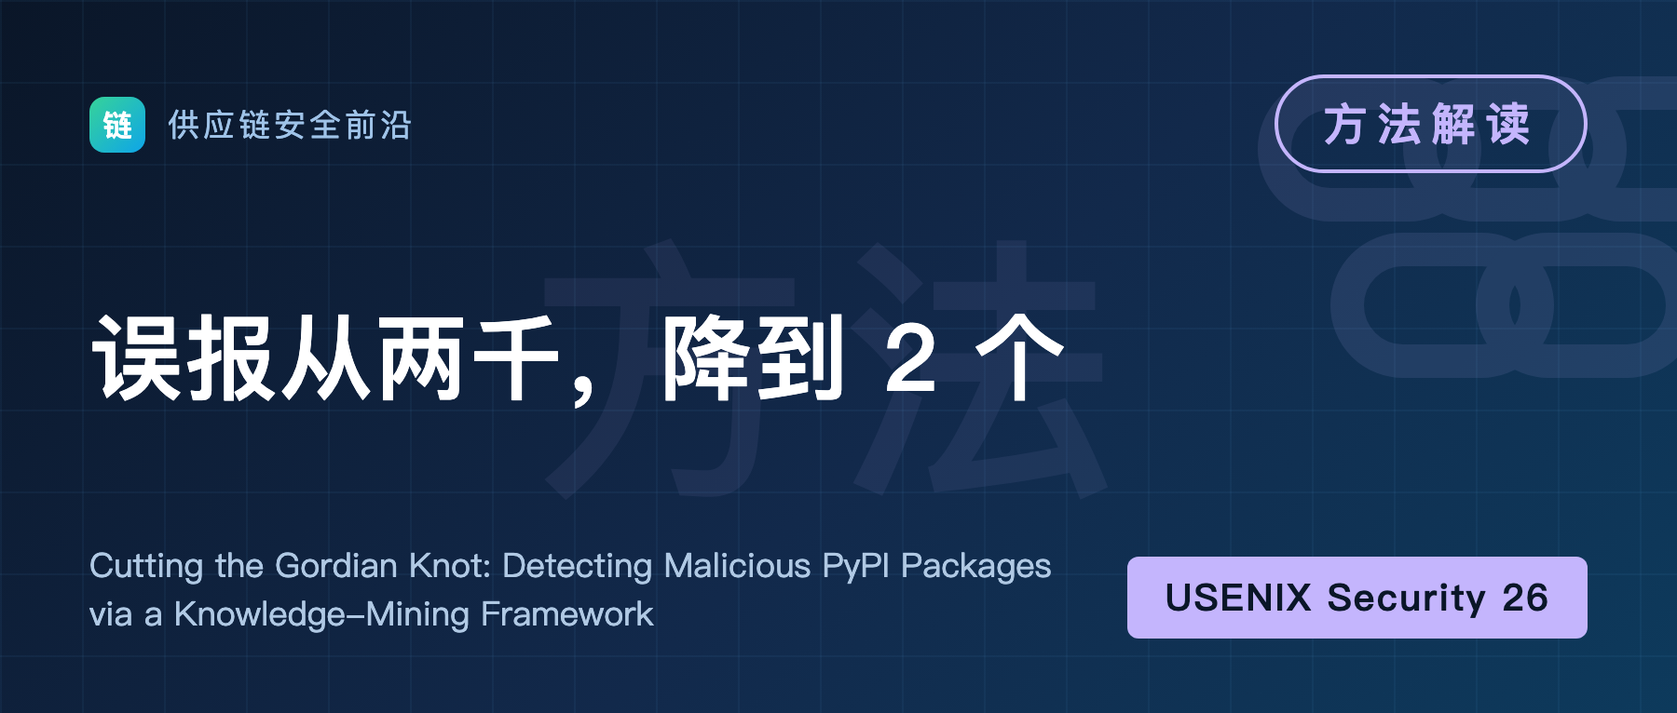
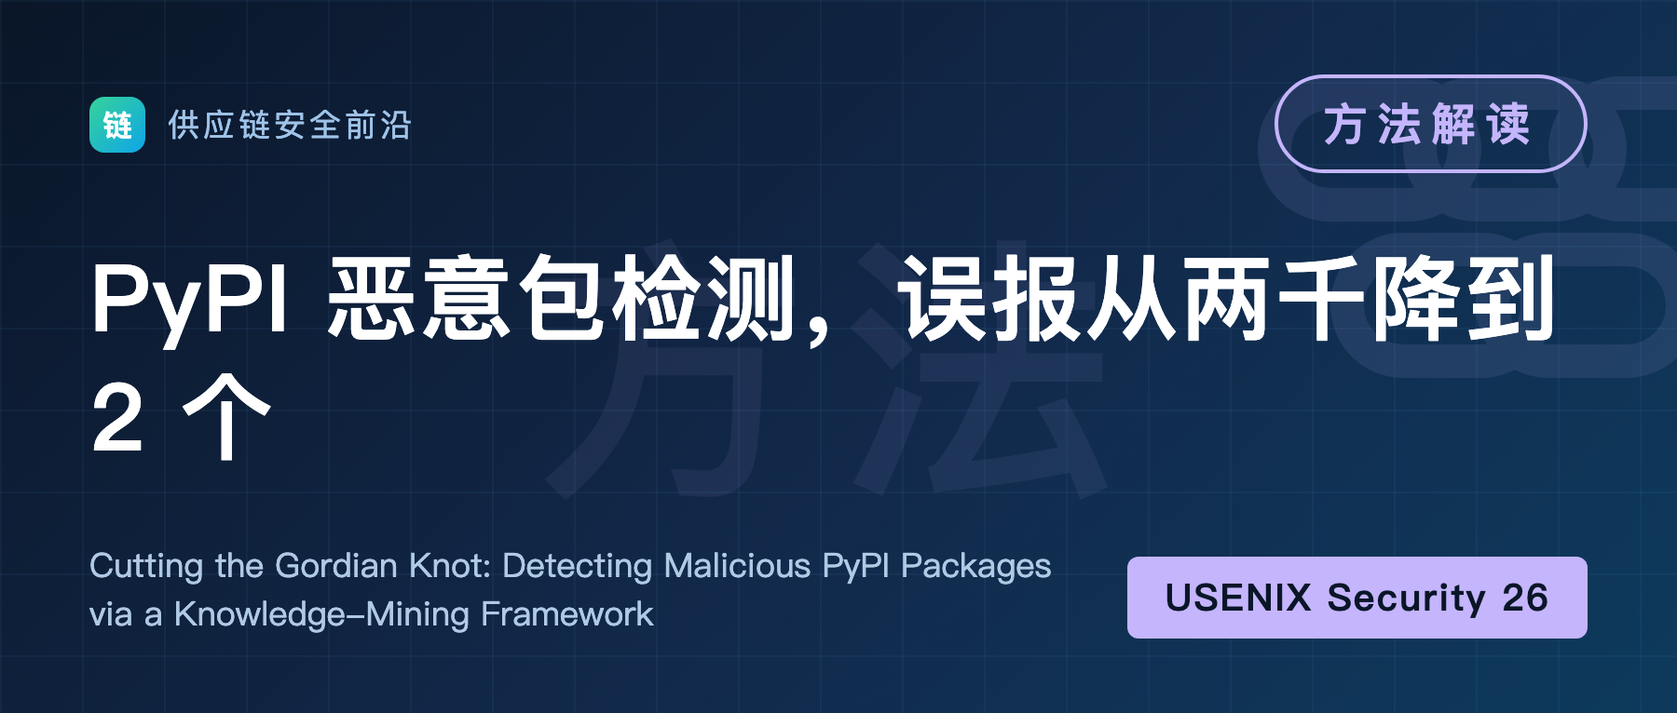
fix: 两篇封面标题点明主题 + PyGuard 正文避开微信 WAF 敏感字面量
封面大标题不再用抽象数字/金句：
- PyGuard: "误报从两千降到 2 个" → "PyPI 恶意包检测，误报从两千降到 2 个"
- 侧信道: "包长度出卖了你的对话" → "包长度，出卖了你和大模型的对话"
PyGuard 正文 Fig1 图注去掉 /etc/passwd、webhook.site 字面量（被腾讯 WAF 拦成 501）。
PAPER_WORKFLOW 失败恢复补入 WAF 501 处置 + 换封面清 thumb_media_id 两条。

Changed region(s): [[0.0311, 0.3603, 0.9333, 0.6606]]

diff --git a/papers/2026-08-pyguard/article.html b/papers/2026-08-pyguard/article.html
@@ -1,1 +1,1 @@
-<section style="font-family:-apple-system,BlinkMacSystemFont,&quot;PingFang SC&quot;,sans-serif;padding:4px 2px;"><section style="margin:8px 0 28px;"><p style="margin:0 0 12px;font-size:12px;color:#94a3b8;letter-spacing:2px;">本文看点</p><section style="display:flex;"><section style="flex:1;background:#f7f9fb;border-top:3px solid #7c3aed;border-radius:4px;padding:12px 10px;margin:0 4px;"><p style="margin:0;font-size:12px;color:#94a3b8;">01</p><p style="margin:6px 0 0;font-size:13px;font-weight:600;color:#333;line-height:1.5;">误报从两千降到2个</p></section><section style="flex:1;background:#f7f9fb;border-top:3px solid #7c3aed;border-radius:4px;padding:12px 10px;margin:0 4px;"><p style="margin:0;font-size:12px;color:#94a3b8;">02</p><p style="margin:6px 0 0;font-size:13px;font-weight:600;color:#333;line-height:1.5;">从工具错误里挖知识</p></section><section style="flex:1;background:#f7f9fb;border-top:3px solid #7c3aed;border-radius:4px;padding:12px 10px;margin:0 4px;"><p style="margin:0;font-size:12px;color:#94a3b8;">03</p><p style="margin:6px 0 0;font-size:13px;font-weight:600;color:#333;line-height:1.5;">PyPI揪出219新恶意包</p></section></section></section><section style="margin:36px 0 20px;"><p style="margin:0;font-size:44px;font-weight:800;color:#e2e8f0;line-height:1;">01</p><p style="margin:2px 0 0;font-size:11px;letter-spacing:3px;color:#94a3b8;">PAPER INFO</p><p style="margin:6px 0 0;font-size:20px;font-weight:700;color:#222;">论文信息</p><section style="width:36px;height:3px;background:#7c3aed;margin-top:8px;"></section></section><p style="margin:0 0 20px;font-size:15px;line-height:1.9;color:#3f3f3f;letter-spacing:.5px;text-align:justify;">【论文题目】Cutting the Gordian Knot: Detecting Malicious PyPI Packages via a Knowledge-Mining Framework<br/>【论文链接】https://arxiv.org/abs/2601.16463<br/>【作者团队】南洋理工大学、南开大学、四川大学、帝国理工新加坡</p><section style="margin:20px 0;text-align:center;"><img src="assets/header.png" style="max-width:100%;border-radius:4px;" /><p style="margin:8px 0 0;font-size:12px;color:#888888;text-align:center;line-height:1.6;">— 论文题头</p></section><p style="margin:0 0 20px;font-size:15px;line-height:1.9;color:#3f3f3f;letter-spacing:.5px;text-align:justify;">这是一篇发表在 <strong style="color:#7c3aed;">USENIX Security 2026</strong> 的攻击/检测方法论文（Artifact Evaluated），标题化用了"快刀斩乱麻"的典故。它盯住恶意包检测领域一个又老又顽固的痛点，然后用一个很反常规的思路把它解开。因为是方法类论文，本文重点讲清它的巧思和为什么有效。</p><section style="margin:36px 0 20px;"><p style="margin:0;font-size:44px;font-weight:800;color:#e2e8f0;line-height:1;">02</p><p style="margin:2px 0 0;font-size:11px;letter-spacing:3px;color:#94a3b8;">OVERVIEW</p><p style="margin:6px 0 0;font-size:20px;font-weight:700;color:#222;">导读</p><section style="width:36px;height:3px;background:#7c3aed;margin-top:8px;"></section></section><p style="margin:0 0 20px;font-size:15px;line-height:1.9;color:#3f3f3f;letter-spacing:.5px;text-align:justify;">PyPI 上的恶意包检测器不是没有，问题是它们太爱"狼来了"：现有工具的误报率高达 15% 到 30%，<strong style="color:#dc2626;">三分之一的正常包会被误判成恶意</strong>。误报一多，安全团队每周要人工复核四千多个假警报，最后干脆把工具关了或调成宽松模式，反而留出安全盲区。</p><p style="margin:0 0 20px;font-size:15px;line-height:1.9;color:#3f3f3f;letter-spacing:.5px;text-align:justify;">为什么误报这么高？因为现有工具大多靠<strong style="color:#7c3aed;">语法规则</strong>：看到一个敏感 API（比如网络请求、文件读写、base64 编码）就报警，可它读不懂这个 API 到底是在正常干活还是在作恶。PYGUARD 提出一个反常规的解法：既然工具会"看走眼"，那它们看走眼的地方本身就藏着知识，不如从这些误报和漏报里，系统地挖出到底什么行为才能真正区分善恶。最终它把误报从近两千降到 <strong style="color:#7c3aed;">2 个</strong>、准确率做到 99.5%，还扛得住代码混淆、能迁移到 NPM，实测在 PyPI 上揪出了 219 个此前无人发现的恶意包。</p><section style="margin:36px 0 20px;"><p style="margin:0;font-size:44px;font-weight:800;color:#e2e8f0;line-height:1;">03</p><p style="margin:2px 0 0;font-size:11px;letter-spacing:3px;color:#94a3b8;">PAINPOINT</p><p style="margin:6px 0 0;font-size:20px;font-weight:700;color:#222;">痛点：好包坏包，用的是同一批 API</p><section style="width:36px;height:3px;background:#7c3aed;margin-top:8px;"></section></section><p style="margin:0 0 20px;font-size:15px;line-height:1.9;color:#3f3f3f;letter-spacing:.5px;text-align:justify;">先看论文开篇这个例子，一眼就懂现有工具为什么会误报：</p><section style="margin:20px 0;text-align:center;"><img src="assets/fig/fig1-motivating.png" style="max-width:100%;border-radius:4px;" /><p style="margin:8px 0 0;font-size:12px;color:#888888;text-align:center;line-height:1.6;">— 图1：左边是恶意代码，读取 /etc/passwd、base64 编码、再通过 urllib 把数据发到 webhook.site 这个外部地址，一条典型的信息外泄链；右边是正常代码，一个图片处理函数，同样用了 urllib.parse.urlencode 拼 URL、用 base64.b64encode 编码图片。两段代码在 API 层面高度相似（都碰了敏感路径、网络连接、编码），于是所有主流工具都把右边这个正常包误报成了恶意</p></section><p style="margin:0 0 20px;font-size:15px;line-height:1.9;color:#3f3f3f;letter-spacing:.5px;text-align:justify;">关键就在这：恶意的 `base64` + 网络请求，和正常的 `base64` + 网络请求，在语法层面长得几乎一模一样。区别不在用了哪个 API，而在<strong style="color:#7c3aed;">这些 API 串起来到底想干什么</strong>，是"读系统密码文件→编码→发到陌生外部服务器"，还是"读图片→编码→返回给调用方"。语法规则只看到了前半句（用了什么），看不到后半句（意图是什么），于是把大量正常操作也一并报警了。这就是恶意包检测长期高误报的病根。</p><section style="margin:36px 0 20px;"><p style="margin:0;font-size:44px;font-weight:800;color:#e2e8f0;line-height:1;">04</p><p style="margin:2px 0 0;font-size:11px;letter-spacing:3px;color:#94a3b8;">INSIGHT</p><p style="margin:6px 0 0;font-size:20px;font-weight:700;color:#222;">核心洞察：从工具"看走眼"的地方挖知识</p><section style="width:36px;height:3px;background:#7c3aed;margin-top:8px;"></section></section><section style="margin:22px 0;padding:14px 20px;background:#f7f9fb;border-left:4px solid #7c3aed;border-radius:0 4px 4px 0;"><p style="margin:0;font-size:15px;line-height:1.85;color:#333;font-weight:500;">PYGUARD 的核心洞察是：检测工具的误报和漏报，本身就是最宝贵的知识。与其一条条被动地去修误报规则，不如反过来，从工具"看走眼"的地方系统地挖出到底什么行为序列才能真正区分善恶。它不看单个 API，而是把 API 调用抽象成"行为"，再从海量样本里挖出那些只在恶意代码、或只在正常代码里出现的"确定性模式"。一个 API 会不会作恶取决于上下文，但一整条行为链，比如建 socket、连远程、再把标准输入输出都重定向过去，无论换什么写法，本质就是个反弹 shell。语法可以伪装，行为的意图伪装不了。</p></section><p style="margin:0 0 20px;font-size:15px;line-height:1.9;color:#3f3f3f;letter-spacing:.5px;text-align:justify;">这个视角的高明之处在于，它把观测的粒度从"单个 API 调用"抬到了"行为序列"，而意图恰恰藏在序列里，不藏在单点里。</p><section style="margin:36px 0 20px;"><p style="margin:0;font-size:44px;font-weight:800;color:#e2e8f0;line-height:1;">05</p><p style="margin:2px 0 0;font-size:11px;letter-spacing:3px;color:#94a3b8;">METHOD</p><p style="margin:6px 0 0;font-size:20px;font-weight:700;color:#222;">方法：PYGUARD 三步，把行为知识挖出来、用起来</p><section style="width:36px;height:3px;background:#7c3aed;margin-top:8px;"></section></section><section style="margin:20px 0;text-align:center;"><img src="assets/fig/fig2-framework.png" style="max-width:100%;border-radius:4px;" /><p style="margin:8px 0 0;font-size:12px;color:#888888;text-align:center;line-height:1.6;">— 图2：PYGUARD 的三阶段框架。① 行为模式挖掘：用 4 个现有工具（GuardDog、Bandit4Mal、OSSGadget、PyPI WareCheck）扫大量样本，收集它们的误报和真恶意片段，用大模型把 API 调用抽象成统一的"行为"，再分三阶段挖模式，阶段一挖"只在恶意/只在正常里出现"的确定性模式，阶段二挖需要结合上下文判断的可辩护模式，阶段三做模式合并压缩。② 知识提取：把模式知识和案例知识做成双层知识库，向量化存入向量库。③ 知识驱动检测：新代码先做模式匹配，命中确定性模式直接定性；命中可辩护模式则检索相似案例、交大模型结合上下文推理，给出可解释的判定</p></section><p style="margin:0 0 20px;font-size:15px;line-height:1.9;color:#3f3f3f;letter-spacing:.5px;text-align:justify;">三步里，第一步的"分层挖模式"是灵魂。作者先用大模型把五花八门的具体 API 归成一套 327 类的行为分类，把"用了 `urllib.request` 还是 `requests.get`"这种实现差异抹平成同一个抽象行为"网络通信"，这样才能跨实现地识别模式。然后分三阶段挖：<strong style="color:#7c3aed;">阶段一是确定性模式</strong>，那些只在恶意代码里、或只在正常代码里出现的行为序列，分类置信度 100%；<strong style="color:#7c3aed;">阶段二是可辩护模式</strong>，类别偏向 90% 以上、但还需要看上下文才能定的；<strong style="color:#7c3aed;">阶段三是模式合并</strong>，用贪心算法把挖出来的十一万多个模式压缩到 304 个（278 个确定性 + 26 个可辩护），压缩了 99.74% 还保住 92.6% 的覆盖率。检测时，命中确定性模式就直接定性，命中可辩护模式才动用大模型结合检索到的相似案例做上下文推理，既快又可解释。</p><p style="margin:0 0 20px;font-size:15px;line-height:1.9;color:#3f3f3f;letter-spacing:.5px;text-align:justify;">这里藏着这套方法<strong style="color:#7c3aed;">为什么能抗混淆</strong>的关键。一条反弹 shell 的行为链，建 socket、连 TCP、把标准输入输出错误都重定向到这个 socket，本质就是恶意，攻击者再怎么改变量名、打乱控制流、拆分函数，这条 API 的<strong style="color:#7c3aed;">执行顺序</strong>都改不了。<strong style="color:#dc2626;">混淆能伪装语法，却改不了行为的执行顺序，而 PYGUARD 抓的正是顺序</strong>。这就是为什么它在混淆代码上还能做到 98.28% 准确率，而依赖表面特征的机器学习工具一遇混淆就掉 20 到 30 个百分点。</p><section style="margin:36px 0 20px;"><p style="margin:0;font-size:44px;font-weight:800;color:#e2e8f0;line-height:1;">06</p><p style="margin:2px 0 0;font-size:11px;letter-spacing:3px;color:#94a3b8;">RESULTS</p><p style="margin:6px 0 0;font-size:20px;font-weight:700;color:#222;">实验：误报 2 个，而且赢在"知识"不在"模型"</p><section style="width:36px;height:3px;background:#7c3aed;margin-top:8px;"></section></section><p style="margin:0 0 20px;font-size:15px;line-height:1.9;color:#3f3f3f;letter-spacing:.5px;text-align:justify;">主结果对比一目了然：</p><section style="margin:20px 0;text-align:center;"><img src="assets/result/table5-main.png" style="max-width:100%;border-radius:4px;" /><p style="margin:8px 0 0;font-size:12px;color:#888888;text-align:center;line-height:1.6;">— 表1：评测集上 PYGUARD 与各基线工具的对比。PYGUARD 准确率 99.50%、F1 99.49%，而误报（FP）只有 2 个；反观现有工具，Bandit4Mal 误报 1927 个、OSSGadget 2000 个、PyPI WareCheck 2117 个，最好的 GuardDog 也有 141 个误报</p></section><p style="margin:0 0 20px;font-size:15px;line-height:1.9;color:#3f3f3f;letter-spacing:.5px;text-align:justify;"><strong style="color:#dc2626;">同一批测试包，现有工具动辄误报近两千个，PYGUARD 只误报 2 个</strong>，这不是小幅改进，是把"高误报"这个老毛病直接摁到了地上。更值得说的是它赢在哪。作者做了一个很有说服力的消融：一个 GPT-4.1 裸跑（不给知识）准确率 96.72%，一遇混淆代码就掉到 68.58%、飙出 637 个误报；而<strong style="color:#7c3aed;">同样的 GPT-4.1 配上这套行为知识，准确率 99.50%、混淆下也有 98.28%</strong>。最能说明问题的是，<strong style="color:#7c3aed;">连更小的 GPT-4.1-Mini 配上这套知识（99.51%），都反过来胜过了大模型裸跑（96.72%）</strong>，证明真正提供检测力的是那 304 个行为模式，而不是大模型本身的能力。也正因如此，它换成开源的 DeepSeek-V3、Qwen3-8B 也照样能跑（97.74%、95.24%），不依赖闭源 API，成本能压到近乎为零。</p><p style="margin:0 0 20px;font-size:15px;line-height:1.9;color:#3f3f3f;letter-spacing:.5px;text-align:justify;">它还有两个很硬的外部验证。其一，<strong style="color:#7c3aed;">行为知识能跨语言迁移</strong>：把从 PyPI 挖出的模式不加任何改动地拿去检测 NPM 的 JavaScript 恶意包，准确率 98.07%，因为"建连接、执行命令、外泄数据"这些恶意行为的底层逻辑，是不分编程语言的通用原语。其二，也是最有分量的，<strong style="color:#dc2626;">把 PYGUARD 真部署到 PyPI 上跑了三个月，揪出 219 个此前 OSV、Snyk 等数据库都没收录的恶意包，全部被 PyPI 官方确认下架</strong>（收到 253 封确认函），这些包三个月里已经被下载了近四万次；它还在清华、腾讯等国内镜像里查出四千多个恶意包，清华镜像光受影响版本就超过两千、被下载二十多万次，清华和腾讯都已确认清理。同期，那些高误报的基线工具在相同数据上产生了七千多个假警报。</p><p style="margin:0 0 20px;font-size:15px;line-height:1.9;color:#3f3f3f;letter-spacing:.5px;text-align:justify;">作者也很诚实地标注了边界：PYGUARD 剩下的 19 个漏报，主要是依赖混淆（包自己不含恶意代码、只是引入了一个恶意依赖）、运行时才从远程拉恶意代码、以及把载荷藏在非 Python 文件里这三类，它们落在"分析 Python 代码行为"这个设计范围之外。</p><section style="margin:36px 0 20px;"><p style="margin:0;font-size:44px;font-weight:800;color:#e2e8f0;line-height:1;">07</p><p style="margin:2px 0 0;font-size:11px;letter-spacing:3px;color:#94a3b8;">TAKEAWAYS</p><p style="margin:6px 0 0;font-size:20px;font-weight:700;color:#222;">启发与点评</p><section style="width:36px;height:3px;background:#7c3aed;margin-top:8px;"></section></section><p style="margin:0 0 20px;font-size:15px;line-height:1.9;color:#3f3f3f;letter-spacing:.5px;text-align:justify;"><strong style="color:#7c3aed;">对研究者</strong>：这篇最漂亮的思路，是把"检测失败"从一个要消灭的坏东西，变成了一座可开采的知识矿。传统做法是把误报当噪声去压，而它反过来问，工具为什么会在这里看走眼？这个"看走眼"里就藏着善恶的真正分界。这个"从失败中挖知识"的范式可以迁移到任何高误报的检测场景。方法层面还有两点值得记：一是<strong style="color:#7c3aed;">把观测粒度从单点 API 抬到行为序列</strong>，意图藏在序列里而非单点里，这也是它抗混淆、能跨语言迁移的根本原因；二是它用消融证明了一件在大模型时代很重要的事，<strong style="color:#7c3aed;">决定检测效果的往往不是模型有多大，而是喂给它的领域知识有多精</strong>，一套好知识能让小模型胜过裸跑的大模型，这对成本敏感的落地部署是实打实的启发。</p><p style="margin:0 0 20px;font-size:15px;line-height:1.9;color:#3f3f3f;letter-spacing:.5px;text-align:justify;"><strong style="color:#7c3aed;">对从业者</strong>：两个能立刻用的判断。其一，<strong style="color:#7c3aed;">别因为误报高就把检测工具关掉</strong>：高误报的根子是"只看 API 不看行为链"，与其一关了之留下盲区，不如换用能做行为序列分析、能给出可解释理由的方案。其二，<strong style="color:#7c3aed;">盯紧行为链而不是单个敏感 API</strong>：审一个包时，与其看它有没有用 `base64` 或网络请求（正常包也天天用），不如看这些操作串起来的意图，是不是"读敏感文件→编码→发往陌生外部地址"这种完整的外泄链；对镜像维护者来说，这篇也提了个醒，国内镜像里的恶意包存量不小，且会随镜像同步扩散。</p><p style="margin:0 0 20px;font-size:15px;line-height:1.9;color:#3f3f3f;letter-spacing:.5px;text-align:justify;"><strong style="color:#7c3aed;">一点观察</strong>：把这篇放进我们此前解读的恶意包检测系列里看（NPM 检测器横向评测、MalTotal 等），它回答的正是那些工作反复暴露的同一个痛点，现有检测器要么误报高、要么一遇混淆和新攻击就失效，根子都在"依赖表面特征、不懂行为语义"。而 PYGUARD 给出的解法很统一，<strong style="color:#7c3aed;">把检测的锚点从"代码长什么样"换成"代码在做什么"</strong>，行为的意图比语法的外壳稳定得多，也通用得多。软件供应链安全走到今天，恶意与正常的边界越来越模糊、伪装越来越像，能不能守住这条线，越来越取决于我们有没有一套关于"什么行为组合起来才算恶意"的精确知识，而这套知识，恰恰可以从现有工具一次次的失败里挖出来。</p></section>
+<section style="font-family:-apple-system,BlinkMacSystemFont,&quot;PingFang SC&quot;,sans-serif;padding:4px 2px;"><section style="margin:8px 0 28px;"><p style="margin:0 0 12px;font-size:12px;color:#94a3b8;letter-spacing:2px;">本文看点</p><section style="display:flex;"><section style="flex:1;background:#f7f9fb;border-top:3px solid #7c3aed;border-radius:4px;padding:12px 10px;margin:0 4px;"><p style="margin:0;font-size:12px;color:#94a3b8;">01</p><p style="margin:6px 0 0;font-size:13px;font-weight:600;color:#333;line-height:1.5;">误报从两千降到2个</p></section><section style="flex:1;background:#f7f9fb;border-top:3px solid #7c3aed;border-radius:4px;padding:12px 10px;margin:0 4px;"><p style="margin:0;font-size:12px;color:#94a3b8;">02</p><p style="margin:6px 0 0;font-size:13px;font-weight:600;color:#333;line-height:1.5;">从工具错误里挖知识</p></section><section style="flex:1;background:#f7f9fb;border-top:3px solid #7c3aed;border-radius:4px;padding:12px 10px;margin:0 4px;"><p style="margin:0;font-size:12px;color:#94a3b8;">03</p><p style="margin:6px 0 0;font-size:13px;font-weight:600;color:#333;line-height:1.5;">PyPI揪出219新恶意包</p></section></section></section><section style="margin:36px 0 20px;"><p style="margin:0;font-size:44px;font-weight:800;color:#e2e8f0;line-height:1;">01</p><p style="margin:2px 0 0;font-size:11px;letter-spacing:3px;color:#94a3b8;">PAPER INFO</p><p style="margin:6px 0 0;font-size:20px;font-weight:700;color:#222;">论文信息</p><section style="width:36px;height:3px;background:#7c3aed;margin-top:8px;"></section></section><p style="margin:0 0 20px;font-size:15px;line-height:1.9;color:#3f3f3f;letter-spacing:.5px;text-align:justify;">【论文题目】Cutting the Gordian Knot: Detecting Malicious PyPI Packages via a Knowledge-Mining Framework<br/>【论文链接】https://arxiv.org/abs/2601.16463<br/>【作者团队】南洋理工大学、南开大学、四川大学、帝国理工新加坡</p><section style="margin:20px 0;text-align:center;"><img src="assets/header.png" style="max-width:100%;border-radius:4px;" /><p style="margin:8px 0 0;font-size:12px;color:#888888;text-align:center;line-height:1.6;">— 论文题头</p></section><p style="margin:0 0 20px;font-size:15px;line-height:1.9;color:#3f3f3f;letter-spacing:.5px;text-align:justify;">这是一篇发表在 <strong style="color:#7c3aed;">USENIX Security 2026</strong> 的攻击/检测方法论文（Artifact Evaluated），标题化用了"快刀斩乱麻"的典故。它盯住恶意包检测领域一个又老又顽固的痛点，然后用一个很反常规的思路把它解开。因为是方法类论文，本文重点讲清它的巧思和为什么有效。</p><section style="margin:36px 0 20px;"><p style="margin:0;font-size:44px;font-weight:800;color:#e2e8f0;line-height:1;">02</p><p style="margin:2px 0 0;font-size:11px;letter-spacing:3px;color:#94a3b8;">OVERVIEW</p><p style="margin:6px 0 0;font-size:20px;font-weight:700;color:#222;">导读</p><section style="width:36px;height:3px;background:#7c3aed;margin-top:8px;"></section></section><p style="margin:0 0 20px;font-size:15px;line-height:1.9;color:#3f3f3f;letter-spacing:.5px;text-align:justify;">PyPI 上的恶意包检测器不是没有，问题是它们太爱"狼来了"：现有工具的误报率高达 15% 到 30%，<strong style="color:#dc2626;">三分之一的正常包会被误判成恶意</strong>。误报一多，安全团队每周要人工复核四千多个假警报，最后干脆把工具关了或调成宽松模式，反而留出安全盲区。</p><p style="margin:0 0 20px;font-size:15px;line-height:1.9;color:#3f3f3f;letter-spacing:.5px;text-align:justify;">为什么误报这么高？因为现有工具大多靠<strong style="color:#7c3aed;">语法规则</strong>：看到一个敏感 API（比如网络请求、文件读写、base64 编码）就报警，可它读不懂这个 API 到底是在正常干活还是在作恶。PYGUARD 提出一个反常规的解法：既然工具会"看走眼"，那它们看走眼的地方本身就藏着知识，不如从这些误报和漏报里，系统地挖出到底什么行为才能真正区分善恶。最终它把误报从近两千降到 <strong style="color:#7c3aed;">2 个</strong>、准确率做到 99.5%，还扛得住代码混淆、能迁移到 NPM，实测在 PyPI 上揪出了 219 个此前无人发现的恶意包。</p><section style="margin:36px 0 20px;"><p style="margin:0;font-size:44px;font-weight:800;color:#e2e8f0;line-height:1;">03</p><p style="margin:2px 0 0;font-size:11px;letter-spacing:3px;color:#94a3b8;">PAINPOINT</p><p style="margin:6px 0 0;font-size:20px;font-weight:700;color:#222;">痛点：好包坏包，用的是同一批 API</p><section style="width:36px;height:3px;background:#7c3aed;margin-top:8px;"></section></section><p style="margin:0 0 20px;font-size:15px;line-height:1.9;color:#3f3f3f;letter-spacing:.5px;text-align:justify;">先看论文开篇这个例子，一眼就懂现有工具为什么会误报：</p><section style="margin:20px 0;text-align:center;"><img src="assets/fig/fig1-motivating.png" style="max-width:100%;border-radius:4px;" /><p style="margin:8px 0 0;font-size:12px;color:#888888;text-align:center;line-height:1.6;">— 图1：左边是恶意代码，读取系统密码文件、做 base64 编码、再通过 urllib 把数据发到一个外部收集地址，一条典型的信息外泄链；右边是正常代码，一个图片处理函数，同样用了 urllib 拼 URL、用 base64 编码图片。两段代码在 API 层面高度相似（都碰了敏感路径、网络连接、编码），于是所有主流工具都把右边这个正常包误报成了恶意</p></section><p style="margin:0 0 20px;font-size:15px;line-height:1.9;color:#3f3f3f;letter-spacing:.5px;text-align:justify;">关键就在这：恶意的 `base64` + 网络请求，和正常的 `base64` + 网络请求，在语法层面长得几乎一模一样。区别不在用了哪个 API，而在<strong style="color:#7c3aed;">这些 API 串起来到底想干什么</strong>，是"读系统密码文件→编码→发到陌生外部服务器"，还是"读图片→编码→返回给调用方"。语法规则只看到了前半句（用了什么），看不到后半句（意图是什么），于是把大量正常操作也一并报警了。这就是恶意包检测长期高误报的病根。</p><section style="margin:36px 0 20px;"><p style="margin:0;font-size:44px;font-weight:800;color:#e2e8f0;line-height:1;">04</p><p style="margin:2px 0 0;font-size:11px;letter-spacing:3px;color:#94a3b8;">INSIGHT</p><p style="margin:6px 0 0;font-size:20px;font-weight:700;color:#222;">核心洞察：从工具"看走眼"的地方挖知识</p><section style="width:36px;height:3px;background:#7c3aed;margin-top:8px;"></section></section><section style="margin:22px 0;padding:14px 20px;background:#f7f9fb;border-left:4px solid #7c3aed;border-radius:0 4px 4px 0;"><p style="margin:0;font-size:15px;line-height:1.85;color:#333;font-weight:500;">PYGUARD 的核心洞察是：检测工具的误报和漏报，本身就是最宝贵的知识。与其一条条被动地去修误报规则，不如反过来，从工具"看走眼"的地方系统地挖出到底什么行为序列才能真正区分善恶。它不看单个 API，而是把 API 调用抽象成"行为"，再从海量样本里挖出那些只在恶意代码、或只在正常代码里出现的"确定性模式"。一个 API 会不会作恶取决于上下文，但一整条行为链，比如建 socket、连远程、再把标准输入输出都重定向过去，无论换什么写法，本质就是个反弹 shell。语法可以伪装，行为的意图伪装不了。</p></section><p style="margin:0 0 20px;font-size:15px;line-height:1.9;color:#3f3f3f;letter-spacing:.5px;text-align:justify;">这个视角的高明之处在于，它把观测的粒度从"单个 API 调用"抬到了"行为序列"，而意图恰恰藏在序列里，不藏在单点里。</p><section style="margin:36px 0 20px;"><p style="margin:0;font-size:44px;font-weight:800;color:#e2e8f0;line-height:1;">05</p><p style="margin:2px 0 0;font-size:11px;letter-spacing:3px;color:#94a3b8;">METHOD</p><p style="margin:6px 0 0;font-size:20px;font-weight:700;color:#222;">方法：PYGUARD 三步，把行为知识挖出来、用起来</p><section style="width:36px;height:3px;background:#7c3aed;margin-top:8px;"></section></section><section style="margin:20px 0;text-align:center;"><img src="assets/fig/fig2-framework.png" style="max-width:100%;border-radius:4px;" /><p style="margin:8px 0 0;font-size:12px;color:#888888;text-align:center;line-height:1.6;">— 图2：PYGUARD 的三阶段框架。① 行为模式挖掘：用 4 个现有工具（GuardDog、Bandit4Mal、OSSGadget、PyPI WareCheck）扫大量样本，收集它们的误报和真恶意片段，用大模型把 API 调用抽象成统一的"行为"，再分三阶段挖模式，阶段一挖"只在恶意/只在正常里出现"的确定性模式，阶段二挖需要结合上下文判断的可辩护模式，阶段三做模式合并压缩。② 知识提取：把模式知识和案例知识做成双层知识库，向量化存入向量库。③ 知识驱动检测：新代码先做模式匹配，命中确定性模式直接定性；命中可辩护模式则检索相似案例、交大模型结合上下文推理，给出可解释的判定</p></section><p style="margin:0 0 20px;font-size:15px;line-height:1.9;color:#3f3f3f;letter-spacing:.5px;text-align:justify;">三步里，第一步的"分层挖模式"是灵魂。作者先用大模型把五花八门的具体 API 归成一套 327 类的行为分类，把"用了 `urllib.request` 还是 `requests.get`"这种实现差异抹平成同一个抽象行为"网络通信"，这样才能跨实现地识别模式。然后分三阶段挖：<strong style="color:#7c3aed;">阶段一是确定性模式</strong>，那些只在恶意代码里、或只在正常代码里出现的行为序列，分类置信度 100%；<strong style="color:#7c3aed;">阶段二是可辩护模式</strong>，类别偏向 90% 以上、但还需要看上下文才能定的；<strong style="color:#7c3aed;">阶段三是模式合并</strong>，用贪心算法把挖出来的十一万多个模式压缩到 304 个（278 个确定性 + 26 个可辩护），压缩了 99.74% 还保住 92.6% 的覆盖率。检测时，命中确定性模式就直接定性，命中可辩护模式才动用大模型结合检索到的相似案例做上下文推理，既快又可解释。</p><p style="margin:0 0 20px;font-size:15px;line-height:1.9;color:#3f3f3f;letter-spacing:.5px;text-align:justify;">这里藏着这套方法<strong style="color:#7c3aed;">为什么能抗混淆</strong>的关键。一条反弹 shell 的行为链，建 socket、连 TCP、把标准输入输出错误都重定向到这个 socket，本质就是恶意，攻击者再怎么改变量名、打乱控制流、拆分函数，这条 API 的<strong style="color:#7c3aed;">执行顺序</strong>都改不了。<strong style="color:#dc2626;">混淆能伪装语法，却改不了行为的执行顺序，而 PYGUARD 抓的正是顺序</strong>。这就是为什么它在混淆代码上还能做到 98.28% 准确率，而依赖表面特征的机器学习工具一遇混淆就掉 20 到 30 个百分点。</p><section style="margin:36px 0 20px;"><p style="margin:0;font-size:44px;font-weight:800;color:#e2e8f0;line-height:1;">06</p><p style="margin:2px 0 0;font-size:11px;letter-spacing:3px;color:#94a3b8;">RESULTS</p><p style="margin:6px 0 0;font-size:20px;font-weight:700;color:#222;">实验：误报 2 个，而且赢在"知识"不在"模型"</p><section style="width:36px;height:3px;background:#7c3aed;margin-top:8px;"></section></section><p style="margin:0 0 20px;font-size:15px;line-height:1.9;color:#3f3f3f;letter-spacing:.5px;text-align:justify;">主结果对比一目了然：</p><section style="margin:20px 0;text-align:center;"><img src="assets/result/table5-main.png" style="max-width:100%;border-radius:4px;" /><p style="margin:8px 0 0;font-size:12px;color:#888888;text-align:center;line-height:1.6;">— 表1：评测集上 PYGUARD 与各基线工具的对比。PYGUARD 准确率 99.50%、F1 99.49%，而误报（FP）只有 2 个；反观现有工具，Bandit4Mal 误报 1927 个、OSSGadget 2000 个、PyPI WareCheck 2117 个，最好的 GuardDog 也有 141 个误报</p></section><p style="margin:0 0 20px;font-size:15px;line-height:1.9;color:#3f3f3f;letter-spacing:.5px;text-align:justify;"><strong style="color:#dc2626;">同一批测试包，现有工具动辄误报近两千个，PYGUARD 只误报 2 个</strong>，这不是小幅改进，是把"高误报"这个老毛病直接摁到了地上。更值得说的是它赢在哪。作者做了一个很有说服力的消融：一个 GPT-4.1 裸跑（不给知识）准确率 96.72%，一遇混淆代码就掉到 68.58%、飙出 637 个误报；而<strong style="color:#7c3aed;">同样的 GPT-4.1 配上这套行为知识，准确率 99.50%、混淆下也有 98.28%</strong>。最能说明问题的是，<strong style="color:#7c3aed;">连更小的 GPT-4.1-Mini 配上这套知识（99.51%），都反过来胜过了大模型裸跑（96.72%）</strong>，证明真正提供检测力的是那 304 个行为模式，而不是大模型本身的能力。也正因如此，它换成开源的 DeepSeek-V3、Qwen3-8B 也照样能跑（97.74%、95.24%），不依赖闭源 API，成本能压到近乎为零。</p><p style="margin:0 0 20px;font-size:15px;line-height:1.9;color:#3f3f3f;letter-spacing:.5px;text-align:justify;">它还有两个很硬的外部验证。其一，<strong style="color:#7c3aed;">行为知识能跨语言迁移</strong>：把从 PyPI 挖出的模式不加任何改动地拿去检测 NPM 的 JavaScript 恶意包，准确率 98.07%，因为"建连接、执行命令、外泄数据"这些恶意行为的底层逻辑，是不分编程语言的通用原语。其二，也是最有分量的，<strong style="color:#dc2626;">把 PYGUARD 真部署到 PyPI 上跑了三个月，揪出 219 个此前 OSV、Snyk 等数据库都没收录的恶意包，全部被 PyPI 官方确认下架</strong>（收到 253 封确认函），这些包三个月里已经被下载了近四万次；它还在清华、腾讯等国内镜像里查出四千多个恶意包，清华镜像光受影响版本就超过两千、被下载二十多万次，清华和腾讯都已确认清理。同期，那些高误报的基线工具在相同数据上产生了七千多个假警报。</p><p style="margin:0 0 20px;font-size:15px;line-height:1.9;color:#3f3f3f;letter-spacing:.5px;text-align:justify;">作者也很诚实地标注了边界：PYGUARD 剩下的 19 个漏报，主要是依赖混淆（包自己不含恶意代码、只是引入了一个恶意依赖）、运行时才从远程拉恶意代码、以及把载荷藏在非 Python 文件里这三类，它们落在"分析 Python 代码行为"这个设计范围之外。</p><section style="margin:36px 0 20px;"><p style="margin:0;font-size:44px;font-weight:800;color:#e2e8f0;line-height:1;">07</p><p style="margin:2px 0 0;font-size:11px;letter-spacing:3px;color:#94a3b8;">TAKEAWAYS</p><p style="margin:6px 0 0;font-size:20px;font-weight:700;color:#222;">启发与点评</p><section style="width:36px;height:3px;background:#7c3aed;margin-top:8px;"></section></section><p style="margin:0 0 20px;font-size:15px;line-height:1.9;color:#3f3f3f;letter-spacing:.5px;text-align:justify;"><strong style="color:#7c3aed;">对研究者</strong>：这篇最漂亮的思路，是把"检测失败"从一个要消灭的坏东西，变成了一座可开采的知识矿。传统做法是把误报当噪声去压，而它反过来问，工具为什么会在这里看走眼？这个"看走眼"里就藏着善恶的真正分界。这个"从失败中挖知识"的范式可以迁移到任何高误报的检测场景。方法层面还有两点值得记：一是<strong style="color:#7c3aed;">把观测粒度从单点 API 抬到行为序列</strong>，意图藏在序列里而非单点里，这也是它抗混淆、能跨语言迁移的根本原因；二是它用消融证明了一件在大模型时代很重要的事，<strong style="color:#7c3aed;">决定检测效果的往往不是模型有多大，而是喂给它的领域知识有多精</strong>，一套好知识能让小模型胜过裸跑的大模型，这对成本敏感的落地部署是实打实的启发。</p><p style="margin:0 0 20px;font-size:15px;line-height:1.9;color:#3f3f3f;letter-spacing:.5px;text-align:justify;"><strong style="color:#7c3aed;">对从业者</strong>：两个能立刻用的判断。其一，<strong style="color:#7c3aed;">别因为误报高就把检测工具关掉</strong>：高误报的根子是"只看 API 不看行为链"，与其一关了之留下盲区，不如换用能做行为序列分析、能给出可解释理由的方案。其二，<strong style="color:#7c3aed;">盯紧行为链而不是单个敏感 API</strong>：审一个包时，与其看它有没有用 `base64` 或网络请求（正常包也天天用），不如看这些操作串起来的意图，是不是"读敏感文件→编码→发往陌生外部地址"这种完整的外泄链；对镜像维护者来说，这篇也提了个醒，国内镜像里的恶意包存量不小，且会随镜像同步扩散。</p><p style="margin:0 0 20px;font-size:15px;line-height:1.9;color:#3f3f3f;letter-spacing:.5px;text-align:justify;"><strong style="color:#7c3aed;">一点观察</strong>：把这篇放进我们此前解读的恶意包检测系列里看（NPM 检测器横向评测、MalTotal 等），它回答的正是那些工作反复暴露的同一个痛点，现有检测器要么误报高、要么一遇混淆和新攻击就失效，根子都在"依赖表面特征、不懂行为语义"。而 PYGUARD 给出的解法很统一，<strong style="color:#7c3aed;">把检测的锚点从"代码长什么样"换成"代码在做什么"</strong>，行为的意图比语法的外壳稳定得多，也通用得多。软件供应链安全走到今天，恶意与正常的边界越来越模糊、伪装越来越像，能不能守住这条线，越来越取决于我们有没有一套关于"什么行为组合起来才算恶意"的精确知识，而这套知识，恰恰可以从现有工具一次次的失败里挖出来。</p></section>

diff --git a/pipeline/PAPER_WORKFLOW.md b/pipeline/PAPER_WORKFLOW.md
@@ -124,4 +124,9 @@
 
 - 每步产物都在 `papers/<slug>/` 内，从失败步骤继续，不从头跑。
 - 40164 = IP 白名单失效，提示用户更新（脚本报错信息里有指引）。
+- **`JSONDecodeError` / 返回 501 HTML（waf.tencent.com）= 微信 WAF 拦了正文**：文章里含攻击特征字符串
+  （如 `/etc/passwd`、`webhook.site`、`../`、`/bin/sh`、`~/.aws/credentials`、SQL/脚本注入样式）。恶意代码类论文的图注/正文最常踩。
+  处理：把这些字面量软化成描述（"系统密码文件""某外部收集地址"），保留 API 名等无害词，重渲染重发。
+  发前可自查：`grep -noE "/etc/[a-z]+|webhook\.site|\.\./|/bin/sh|/aws/credentials|<script" papers/<slug>/article.md`。
+- 换封面：清掉 `publish.json` 的 `thumb_media_id`（保留 `draft_media_id`）再重跑发布，会重传封面并原地更新草稿。
 - 换新机器：`bash scripts/setup.sh` 重装依赖并重建 `.claude/commands/paper.md` 薄壳。
